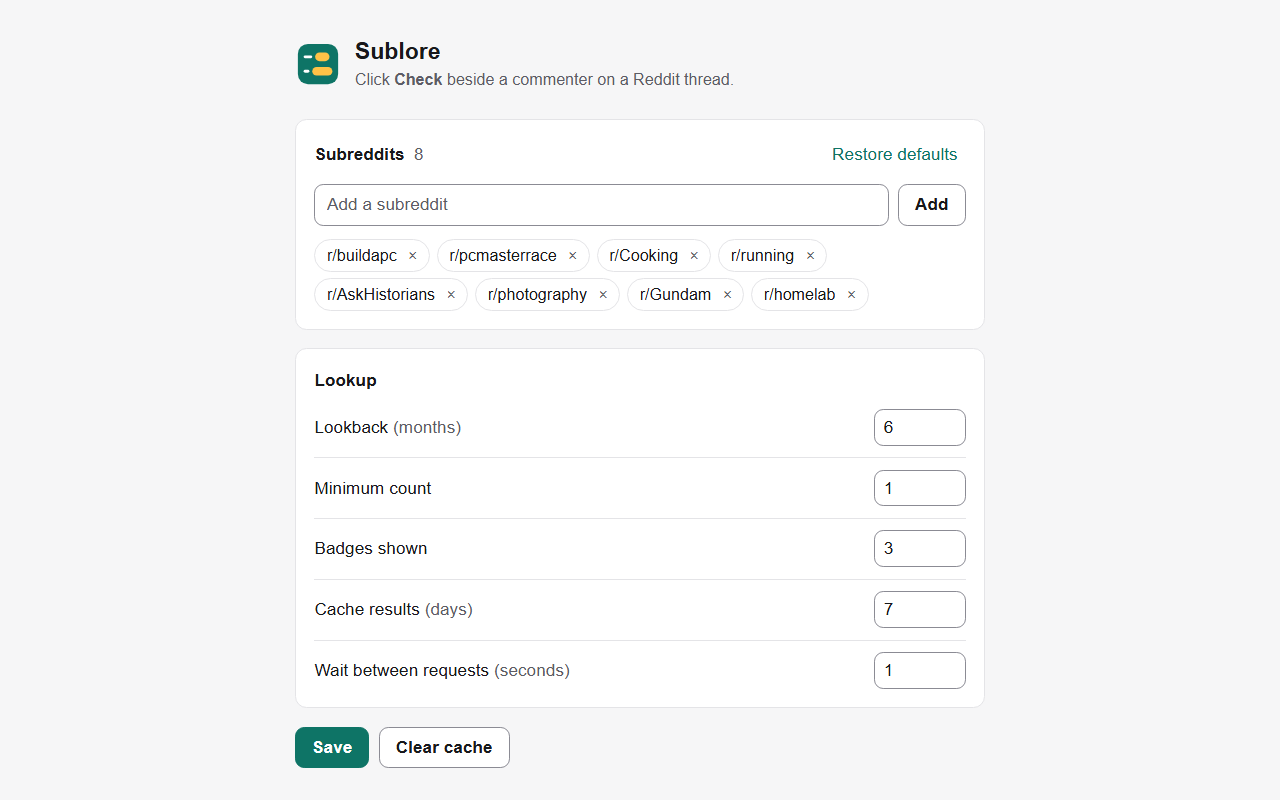
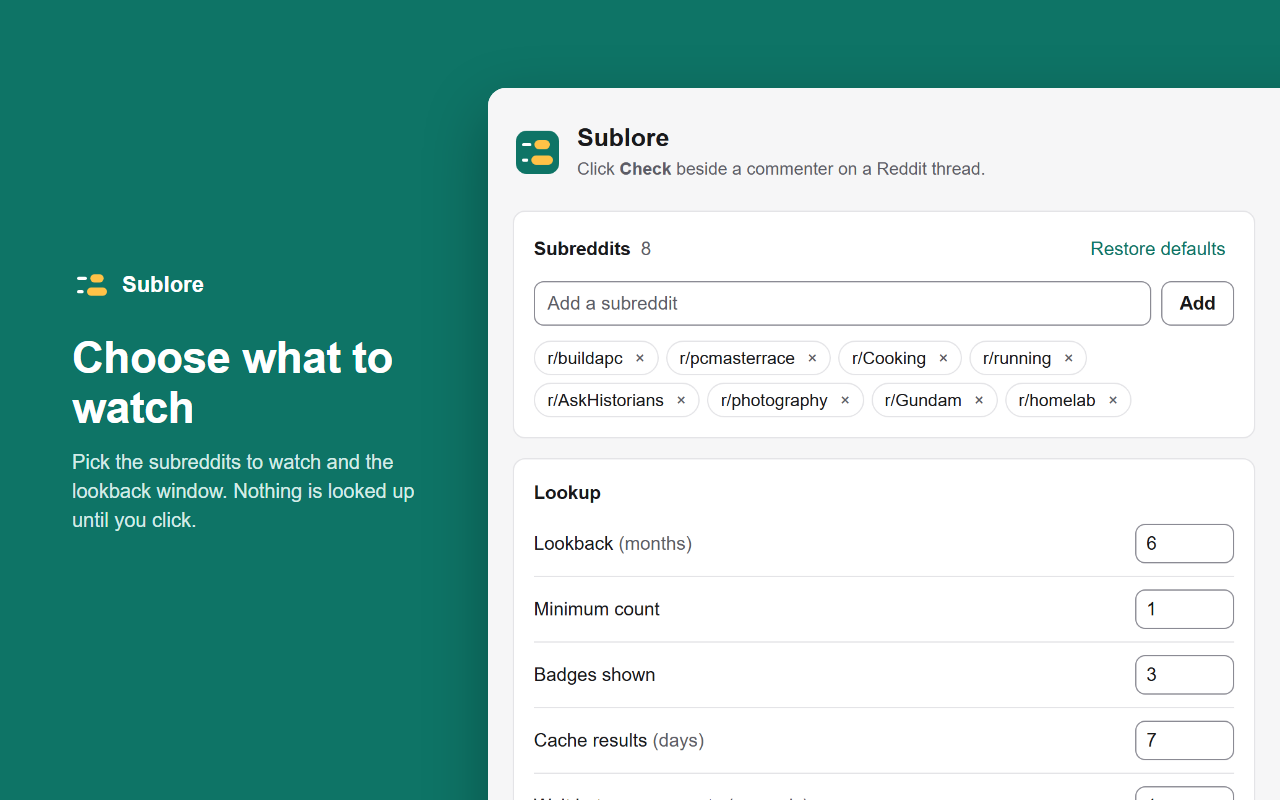
docs(store): redesign store screenshots and promo tile

diff --git a/store/listing.md b/store/listing.md
@@ -12,7 +12,8 @@ Upload `dist/sublore-chrome.zip` to the Chrome Web Store and
 - Homepage: <https://github.com/qwareeq8/sublore>
 - Privacy policy: <https://github.com/qwareeq8/sublore/blob/main/PRIVACY.md>
 - Chrome store icon (128x128): `assets/icon-128.png`
-- Screenshots (1280x800): `screenshot-thread.png`, `screenshot-settings.png`
+- Screenshots (1280x800): `screenshot-thread.png`, `screenshot-newcomer.png`,
+  `screenshot-settings.png`
 - Chrome small promo tile (440x280): `promo-small.png`
 
 ## Description
